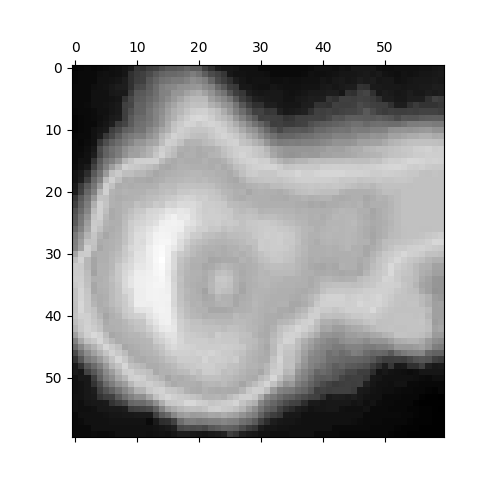
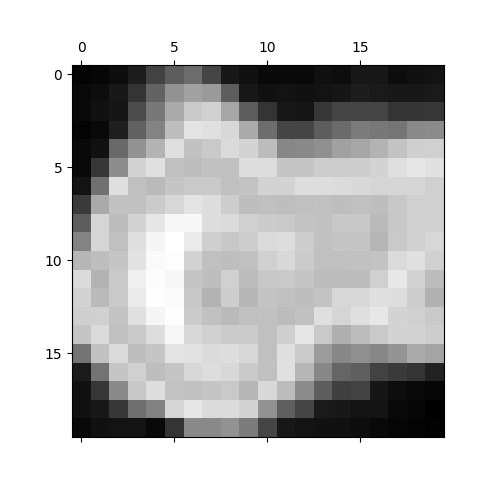
use matern function

diff --git a/utils/params_utils.py b/utils/params_utils.py
@@ -7,7 +7,7 @@ import utils.math_utils as math_utils
 
 
 class Params:
-    M = 60
+    M = 20
     N = M * M
 
     phi = 0.16
@@ -17,6 +17,23 @@ class Params:
 
     k_fold_train_by_small = True
     k_fold_splits = 10
+
+
+# absolute exponential kernel
+def exponential_covariance_function(dist):
+    exponential_variance = Params.sigma2 * np.exp(-dist / Params.phi)
+    return exponential_variance
+
+
+def once_differentiable_matern_covariance_function(dist):
+    matern_variance = Params.sigma2 * (1 + (np.sqrt(3) * dist) / Params.phi) * np.exp(-(np.sqrt(3) * dist) / Params.phi)
+    return matern_variance
+
+
+def twice_differentiable_matern_covariance_function(dist_0):
+    poly_term = 1 + (np.sqrt(5) * dist_0 / Params.phi) + ((5 * dist_0 * dist_0) / (3 * Params.phi * Params.phi))
+    matern_variance = Params.sigma2 * poly_term * np.exp(-(np.sqrt(5) * dist_0 / Params.phi))
+    return matern_variance
 
 
 def get_stimulate_mu_cov():

diff --git a/utils/math_utils.py b/utils/math_utils.py
@@ -5,7 +5,7 @@ import utils.params_utils as params_utils
 
 def spatial_cov(v1x, v1y, v2x, v2y):
     dist = np.sqrt((v1x - v2x) ** 2 + (v1y - v2y) ** 2)
-    exponential_variance = params_utils.Params.sigma2 * np.exp(-dist / params_utils.Params.phi)
+    exponential_variance = params_utils.once_differentiable_matern_covariance_function(dist)
     return exponential_variance
 
 
